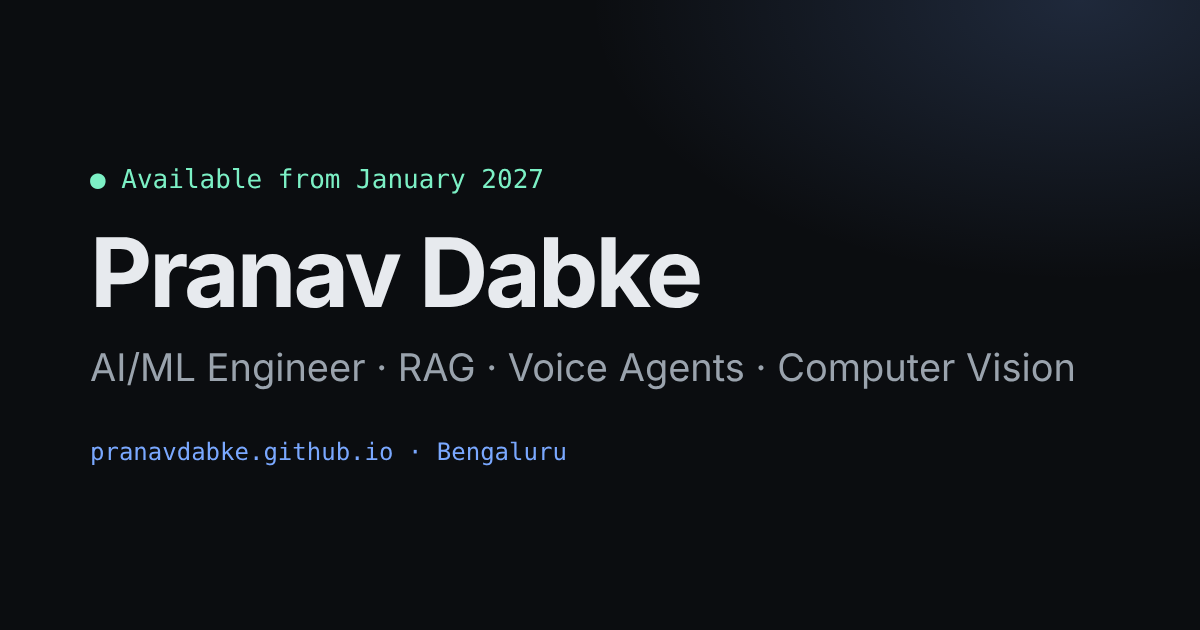
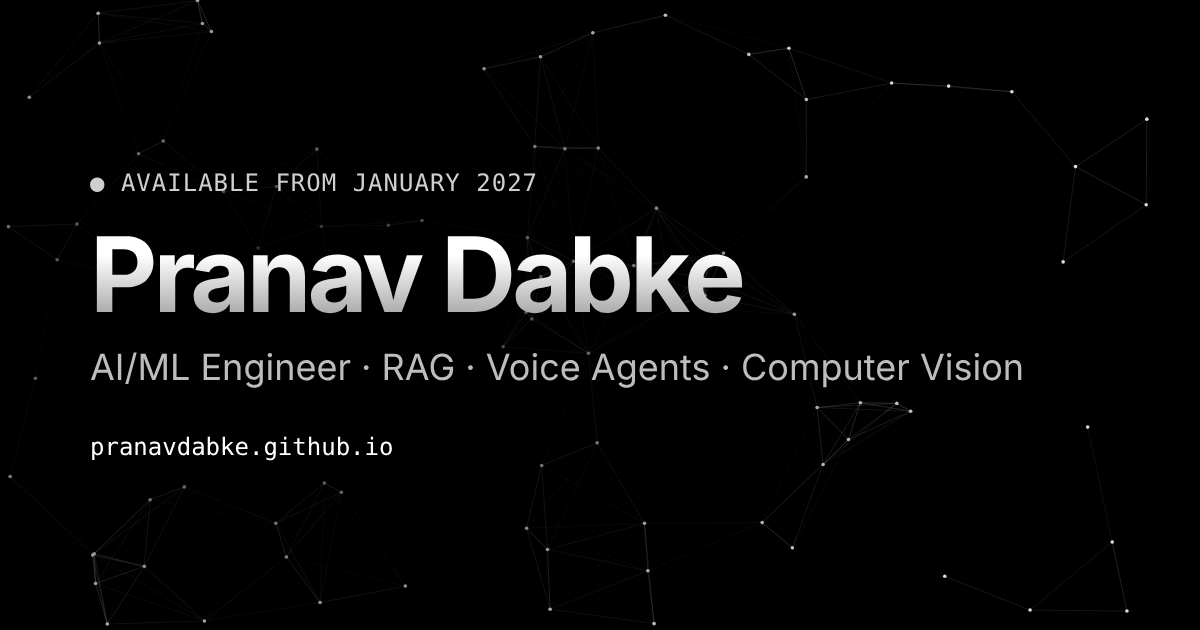
Black & white futuristic theme with neural-network background; RoadReaper numbers match repo
Claude-Session: https://claude.ai/code/session_01QMovfQe3y7svoFsZbKGATw

diff --git a/index.html b/index.html
@@ -8,7 +8,7 @@
 <meta name="author" content="Pranav Dabke">
 <meta name="keywords" content="Pranav Dabke, AI ML intern, machine learning, RAG, AI agents, computer vision, YOLO, VLM, Qwen3-VL, PyTorch, Bengaluru">
 <meta name="robots" content="index, follow">
-<meta name="theme-color" content="#0b0d10">
+<meta name="theme-color" content="#000000">
 <link rel="canonical" href="https://pranavdabke.github.io/">
 <link rel="icon" href="favicon.svg" type="image/svg+xml">
 
@@ -47,12 +47,12 @@
 
 <link rel="preconnect" href="https://fonts.googleapis.com">
 <link rel="preconnect" href="https://fonts.gstatic.com" crossorigin>
-<link href="https://fonts.googleapis.com/css2?family=Inter:wght@400;500;600;700;800&family=JetBrains+Mono:wght@400;500&display=swap" rel="stylesheet">
+<link href="https://fonts.googleapis.com/css2?family=Inter:wght@400;500;600;700;800&family=Space+Grotesk:wght@500;600;700&family=JetBrains+Mono:wght@400;500&display=swap" rel="stylesheet">
 
 <style>
   :root{
-    --bg:#0a0c0f; --panel:#11141a; --panel2:#151922; --line:#222833; --text:#e8ebef; --muted:#97a1ad; --body:#c5ccd4;
-    --accent:#7cf0c5; --accent2:#7aa8ff; --accent3:#f5b971; --mono:'JetBrains Mono',ui-monospace,monospace;
+    --bg:#000; --panel:rgba(12,12,12,.72); --panel2:rgba(22,22,22,.8); --line:rgba(255,255,255,.11); --text:#f4f4f4; --muted:#8c8c8c; --body:#c9c9c9;
+    --accent:#ffffff; --accent2:#e2e2e2; --accent3:#bdbdbd; --head:'Space Grotesk',Inter,sans-serif; --mono:'JetBrains Mono',ui-monospace,monospace;
   }
   *{box-sizing:border-box;margin:0;padding:0}
   html{scroll-behavior:smooth;scroll-padding-top:70px}
@@ -63,26 +63,27 @@
   .mono{font-family:var(--mono)}
 
   /* nav */
-  nav{position:sticky;top:0;z-index:20;background:rgba(10,12,15,.8);backdrop-filter:blur(12px);border-bottom:1px solid var(--line)}
+  nav{position:sticky;top:0;z-index:20;background:rgba(0,0,0,.6);backdrop-filter:blur(12px);border-bottom:1px solid var(--line)}
   nav .wrap{display:flex;justify-content:space-between;align-items:center;height:62px}
   .logo{font-family:var(--mono);font-weight:500;color:var(--accent)}
   .logo span{color:var(--muted)}
   nav ul{display:flex;gap:28px;list-style:none;font-size:14px;color:var(--muted)}
   nav ul a{transition:.15s} nav ul a:hover{color:var(--text)}
-  .nav-cta{font-size:14px;font-weight:600;color:#04120c;background:var(--accent);padding:7px 14px;border-radius:7px}
+  .nav-cta{font-size:14px;font-weight:600;color:#000;background:var(--accent);padding:7px 14px;border-radius:7px}
 
   /* hero */
   header{position:relative;padding:100px 0 80px;overflow:hidden}
   header::before{content:"";position:absolute;inset:0;
     background-image:linear-gradient(var(--line) 1px,transparent 1px),linear-gradient(90deg,var(--line) 1px,transparent 1px);
-    background-size:48px 48px;opacity:.35;mask-image:radial-gradient(ellipse 70% 60% at 50% 30%,#000 30%,transparent 75%)}
+    background-size:48px 48px;opacity:.5;mask-image:radial-gradient(ellipse 70% 60% at 50% 30%,#000 30%,transparent 75%)}
   header::after{content:"";position:absolute;width:640px;height:640px;right:-160px;top:-260px;border-radius:50%;
-    background:radial-gradient(circle,rgba(122,168,255,.18),transparent 65%);pointer-events:none}
+    background:radial-gradient(circle,rgba(255,255,255,.09),transparent 65%);pointer-events:none}
   .hero{position:relative;z-index:1;display:grid;grid-template-columns:1.25fr .9fr;gap:48px;align-items:center}
   .status{display:inline-flex;align-items:center;gap:9px;font-family:var(--mono);font-size:13px;color:var(--accent);
-    border:1px solid rgba(124,240,197,.3);background:rgba(124,240,197,.06);border-radius:999px;padding:6px 14px;margin-bottom:26px}
-  .dot{width:7px;height:7px;border-radius:50%;background:var(--accent);box-shadow:0 0 0 0 rgba(124,240,197,.6);animation:pulse 2s infinite}
-  @keyframes pulse{70%{box-shadow:0 0 0 9px rgba(124,240,197,0)}100%{box-shadow:0 0 0 0 rgba(124,240,197,0)}}
+    border:1px solid rgba(255,255,255,.25);background:rgba(255,255,255,.05);border-radius:999px;padding:6px 14px;margin-bottom:26px}
+  .dot{width:7px;height:7px;border-radius:50%;background:var(--accent);box-shadow:0 0 0 0 rgba(255,255,255,.7);animation:pulse 2s infinite}
+  @keyframes pulse{70%{box-shadow:0 0 0 9px rgba(255,255,255,0)}100%{box-shadow:0 0 0 0 rgba(255,255,255,0)}}
+  h1,h2,h3,h4,.st b,.m b{font-family:var(--head)}
   h1{font-size:clamp(44px,7vw,74px);line-height:1.02;letter-spacing:-.035em;font-weight:800}
   .typed{font-family:var(--mono);font-size:clamp(17px,2.2vw,21px);color:var(--accent2);margin-top:18px;min-height:1.6em}
   .typed .cur{display:inline-block;width:10px;background:var(--accent2);margin-left:2px;animation:blink 1s steps(1) infinite}
@@ -90,18 +91,18 @@
   .lede{font-size:clamp(17px,2vw,19px);color:var(--body);margin-top:14px;max-width:560px}
   .cta{display:flex;flex-wrap:wrap;gap:12px;margin-top:32px}
   .btn{display:inline-flex;align-items:center;gap:8px;padding:11px 20px;border-radius:9px;font-size:15px;font-weight:500;border:1px solid var(--line);background:var(--panel);transition:.15s}
-  .btn:hover{border-color:#3a4553;transform:translateY(-1px)}
-  .btn.primary{background:var(--accent);color:#04120c;border-color:var(--accent);font-weight:600}
+  .btn:hover{border-color:rgba(255,255,255,.45);transform:translateY(-1px)}
+  .btn.primary{background:var(--accent);color:#000;border-color:var(--accent);font-weight:600}
   .btn svg{width:17px;height:17px}
   .loc{margin-top:26px;font-family:var(--mono);font-size:13px;color:var(--muted)}
 
   .term{background:var(--panel);border:1px solid var(--line);border-radius:14px;overflow:hidden;box-shadow:0 30px 80px -30px rgba(0,0,0,.8)}
   .term-bar{display:flex;gap:7px;padding:12px 14px;border-bottom:1px solid var(--line);align-items:center}
   .term-bar i{width:11px;height:11px;border-radius:50%;background:#2a313c}
-  .term-bar i:nth-child(1){background:#ff6b6b}.term-bar i:nth-child(2){background:#f5b971}.term-bar i:nth-child(3){background:#7cf0c5}
+  .term-bar i:nth-child(1){background:#fff}.term-bar i:nth-child(2){background:#888}.term-bar i:nth-child(3){background:#444}
   .term-bar span{margin-left:8px;font-family:var(--mono);font-size:12px;color:var(--muted)}
   .term pre{font-family:var(--mono);font-size:13px;line-height:1.75;padding:18px 20px;color:var(--body);white-space:pre-wrap}
-  .k{color:var(--accent2)} .s{color:var(--accent)} .n{color:var(--accent3)} .c{color:#5d6773}
+  .k{color:#8c8c8c} .s{color:#fff} .n{color:#d6d6d6;font-weight:500} .c{color:#555}
 
   /* stats */
   .stats-strip{border-top:1px solid var(--line);border-bottom:1px solid var(--line);background:var(--panel)}
@@ -143,19 +144,19 @@
   .flow{display:flex;flex-wrap:wrap;align-items:center;gap:8px}
   .node{font-family:var(--mono);font-size:12.5px;padding:7px 11px;border-radius:7px;background:var(--panel2);border:1px solid var(--line);color:var(--text)}
   .node.hl{border-color:var(--c1,var(--accent));color:var(--c1,var(--accent))}
-  .arr{color:#4a5563;font-family:var(--mono)}
+  .arr{color:#5a5a5a;font-family:var(--mono)}
   .flow + .flow{margin-top:10px}
 
   .tags{display:flex;flex-wrap:wrap;gap:7px;margin-top:22px}
   .tag{font-family:var(--mono);font-size:12px;color:var(--muted);border:1px solid var(--line);border-radius:6px;padding:3px 9px}
-  .shot{margin-top:28px;border-radius:12px;border:1px solid var(--line);overflow:hidden;background:#12151a}
+  .shot{margin-top:28px;border-radius:12px;border:1px solid var(--line);overflow:hidden;background:#0d0d0d}
   .shot img{width:100%}
   .cap{font-size:12.5px;color:var(--muted);font-family:var(--mono);padding:10px 14px;border-top:1px solid var(--line)}
 
   /* more projects */
   .grid3{display:grid;grid-template-columns:repeat(3,1fr);gap:18px}
   .mini{background:var(--panel);border:1px solid var(--line);border-radius:14px;padding:24px;display:flex;flex-direction:column;transition:.2s}
-  .mini:hover{border-color:#36404c;transform:translateY(-3px)}
+  .mini:hover{border-color:rgba(255,255,255,.35);transform:translateY(-3px)}
   .mini .ic{font-family:var(--mono);font-size:12px;color:var(--accent2);margin-bottom:12px}
   .mini h4{font-size:17px;letter-spacing:-.01em}
   .mini p{font-size:14.5px;color:var(--body);margin-top:8px;flex:1}
@@ -181,13 +182,27 @@
   .cert i{font-style:normal;font-family:var(--mono);color:var(--accent);flex-shrink:0}
 
   /* contact */
-  .contact-box{background:linear-gradient(135deg,rgba(124,240,197,.08),rgba(122,168,255,.08));border:1px solid var(--line);border-radius:20px;padding:48px}
+  .contact-box{background:linear-gradient(135deg,rgba(255,255,255,.07),rgba(255,255,255,.01));border:1px solid var(--line);border-radius:20px;padding:48px}
   .contact-grid{display:grid;grid-template-columns:repeat(4,1fr);gap:14px;margin-top:30px}
   .contact-grid a{background:var(--panel);border:1px solid var(--line);border-radius:12px;padding:18px;transition:.15s;overflow-wrap:anywhere;font-size:15px}
   .contact-grid a:hover{border-color:var(--accent)}
   .contact-grid small{display:block;font-family:var(--mono);font-size:12px;color:var(--muted);margin-bottom:4px}
   footer{padding:36px 0 48px;color:var(--muted);font-size:13px;font-family:var(--mono)}
   footer .wrap{display:flex;justify-content:space-between;flex-wrap:wrap;gap:10px}
+
+  /* futuristic layer */
+  #net{position:fixed;inset:0;width:100%;height:100%;z-index:0;pointer-events:none}
+  nav,header,section,footer,.stats-strip{position:relative;z-index:1}
+  nav{z-index:20}
+  .case,.mini,.sg,.item,.term,.contact-box,.contact-grid a,.m,.flow-wrap{backdrop-filter:blur(6px);-webkit-backdrop-filter:blur(6px)}
+  .stats-strip{background:rgba(8,8,8,.7);backdrop-filter:blur(6px)}
+  .flow-wrap{background:rgba(0,0,0,.55)}
+  h1{background:linear-gradient(180deg,#fff 30%,#8a8a8a);-webkit-background-clip:text;background-clip:text;color:transparent}
+  .case::before{background:linear-gradient(90deg,#fff,transparent 70%)}
+  .node.hl{box-shadow:0 0 14px rgba(255,255,255,.18)}
+  .btn.primary{box-shadow:0 0 24px rgba(255,255,255,.25)}
+  .btn.primary:hover{box-shadow:0 0 34px rgba(255,255,255,.4)}
+  .scan{position:fixed;inset:0;z-index:0;pointer-events:none;background:repeating-linear-gradient(0deg,rgba(255,255,255,.018) 0 1px,transparent 1px 3px)}
 
   /* reveal */
   .rv{opacity:0;transform:translateY(18px);transition:opacity .6s ease,transform .6s ease}
@@ -217,6 +232,7 @@
 </style>
 </head>
 <body>
+<canvas id="net" aria-hidden="true"></canvas><div class="scan" aria-hidden="true"></div>
 
 <nav><div class="wrap">
   <a class="logo" href="#top">pranav<span>.</span>dabke</a>
@@ -258,7 +274,7 @@
         <span class="k">return</span> {
           <span class="s">"voice_agent_latency"</span>: <span class="n">"~1.25s"</span>,
           <span class="s">"dashcam_videos_run"</span>:  <span class="n">"~100"</span>,
-          <span class="s">"plate_detector_imgs"</span>: <span class="n">"38K"</span>,
+          <span class="s">"plate_detector_mAP50"</span>: <span class="n">0.985</span>,
           <span class="s">"platforms_one_app"</span>:   <span class="n">5</span>,
         }  <span class="c"># see below ↓</span></pre>
   </div>
@@ -266,7 +282,7 @@
 
 <div class="stats-strip"><div class="wrap">
   <div class="st"><b>~1.25<em>s</em></b><span>voice-agent response latency</span></div>
-  <div class="st"><b>38<em>K</em></b><span>images to train RoadReaper</span></div>
+  <div class="st"><b>0.985</b><span>RoadReaper mAP@0.5 (plates)</span></div>
   <div class="st"><b>~100</b><span>dashcam videos through INDRA</span></div>
   <div class="st"><b>3</b><span>VLMs benchmarked head-to-head</span></div>
 </div></div>
@@ -332,7 +348,7 @@
       <div>
         <p>Off-the-shelf detectors struggle on Indian roads: mixed traffic, non-standard plates, autos, triple riding. INDRA combines YOLO detection, tracking and a vision-language model in one pipeline that processes video in batches and writes a single master report.</p>
         <ul class="pts">
-          <li><b>RoadReaper:</b> my custom YOLO number-plate detector, trained on 38K Indian plate images, with about 95% plate accuracy.</li>
+          <li><b>RoadReaper:</b> my custom YOLO number-plate detector, trained on 42,750 Indian plate images, reaching mAP@0.5 of 0.985.</li>
           <li><b>YOLOv8m + ByteTrack</b> to detect and track vehicles; <b>Qwen3-VL-4B</b> reads plates with multi-read consensus and describes the scene (weather, congestion, accidents).</li>
           <li><b>5 new violation classes</b> added, such as triple riding, phone use while riding, wrong-lane riding and missing plates.</li>
           <li>Plate validation that rejects false reads such as video watermarks and dashcam clock overlays, with Levenshtein clustering so each physical plate gives one row.</li>
@@ -341,8 +357,8 @@
         </ul>
       </div>
       <div class="metrics">
-        <div class="m"><b>38K</b><span>plate images for RoadReaper</span></div>
-        <div class="m"><b>~95%</b><span>number-plate accuracy</span></div>
+        <div class="m"><b>42.7K</b><span>plate images for RoadReaper</span></div>
+        <div class="m"><b>0.985</b><span>plate-detection mAP@0.5</span></div>
         <div class="m"><b>~100</b><span>dashcam videos processed</span></div>
         <div class="m"><b>+5</b><span>new violation classes</span></div>
       </div>
@@ -503,6 +519,27 @@
       setTimeout(tick,del?35:65);
     }
     setTimeout(tick,1800);
+  })();
+  // neural-network background
+  (function(){
+    var c=document.getElementById('net'),x=c.getContext('2d'),dpr=Math.min(window.devicePixelRatio||1,2);
+    var still=window.matchMedia('(prefers-reduced-motion: reduce)').matches,W,H,P=[],mouse={x:-9e3,y:-9e3};
+    function size(){W=innerWidth;H=innerHeight;c.width=W*dpr;c.height=H*dpr;x.setTransform(dpr,0,0,dpr,0,0);
+      var n=Math.round(Math.min(110,W*H/14000));P=[];
+      for(var i=0;i<n;i++)P.push({x:Math.random()*W,y:Math.random()*H,vx:(Math.random()-.5)*.25,vy:(Math.random()-.5)*.25,r:Math.random()*1.4+.6,p:Math.random()*6.28});}
+    function draw(t){x.clearRect(0,0,W,H);var D=140;
+      for(var i=0;i<P.length;i++){var a=P[i];
+        if(!still){a.x+=a.vx;a.y+=a.vy;if(a.x<0||a.x>W)a.vx*=-1;if(a.y<0||a.y>H)a.vy*=-1;}
+        for(var j=i+1;j<P.length;j++){var b=P[j],dx=a.x-b.x,dy=a.y-b.y,d=Math.sqrt(dx*dx+dy*dy);
+          if(d<D){x.strokeStyle='rgba(255,255,255,'+(0.13*(1-d/D))+')';x.lineWidth=.6;x.beginPath();x.moveTo(a.x,a.y);x.lineTo(b.x,b.y);x.stroke();}}
+        var mx=a.x-mouse.x,my=a.y-mouse.y,md=Math.sqrt(mx*mx+my*my);
+        if(md<180){x.strokeStyle='rgba(255,255,255,'+(0.35*(1-md/180))+')';x.beginPath();x.moveTo(a.x,a.y);x.lineTo(mouse.x,mouse.y);x.stroke();}
+        var glow=.45+.35*Math.sin((t||0)/900+a.p);
+        x.fillStyle='rgba(255,255,255,'+glow+')';x.beginPath();x.arc(a.x,a.y,a.r,0,6.28);x.fill();}
+      if(!still)requestAnimationFrame(draw);}
+    addEventListener('resize',size);addEventListener('mousemove',function(e){mouse.x=e.clientX;mouse.y=e.clientY});
+    addEventListener('mouseout',function(){mouse.x=mouse.y=-9e3});
+    size();draw(0);
   })();
   // reveal on scroll
   (function(){
